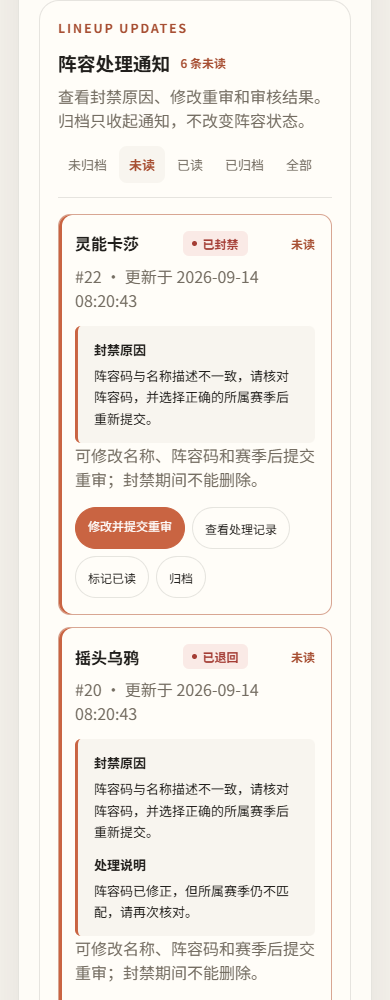
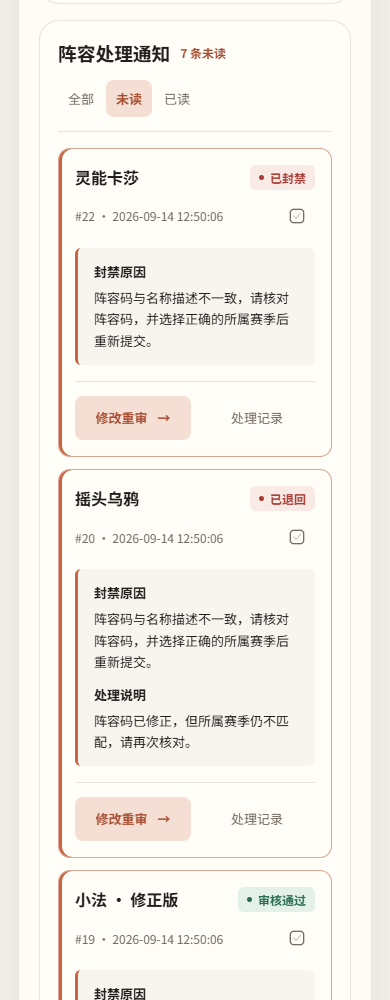
refactor: simplify owner lineup notifications

Changed region(s): [[0.1231, 0.0, 0.8, 1.0], [0.7385, 0.651, 0.8, 0.682], [0.8308, 0.186, 0.8615, 0.217]]

diff --git a/static/account-moderation.js b/static/account-moderation.js
@@ -1,7 +1,7 @@
 (function () {
   const { el, button, badge, openRecord } = window.JccLineupModeration;
   function mount(root, csrfToken) {
-    let status = 'active', page = 1, sequence = 0;
+    let status = 'all', page = 1, sequence = 0;
     const section = el('section', 'account-section'); section.id = 'lineup-notifications'; root.append(section);
     async function api(url, options = {}) {
       const response = await fetch(url, { ...options, headers: { 'Content-Type': 'application/json', 'X-CSRF-Token': csrfToken } });
@@ -13,13 +13,12 @@
       if (requestId !== sequence) return;
       page = data.page; section.replaceChildren();
       const head = el('div', 'account-section-head'); const heading = el('div');
-      heading.append(el('p', 'section-kicker', 'Lineup Updates'));
       const title = el('div', 'lm-notice-heading'); title.append(el('h3', '', '阵容处理通知'));
       if (data.counts.unread) title.append(el('span', 'lm-unread-label', `${data.counts.unread} 条未读`));
-      heading.append(title, el('p', 'account-subtitle', '查看封禁原因、修改重审和审核结果。归档只收起通知，不改变阵容状态。'));
+      heading.append(title);
       head.append(heading); section.append(head);
       const tabs = el('div', 'lm-tabs'); tabs.setAttribute('aria-label', '通知状态筛选');
-      for (const [value, label] of [['active', '未归档'], ['unread', '未读'], ['read', '已读'], ['archived', '已归档'], ['all', '全部']]) {
+      for (const [value, label] of [['all', '全部'], ['unread', '未读'], ['read', '已读']]) {
         const item = button(label, async () => { status = value; page = 1; await load(); }, `lm-tab${status === value ? ' is-active' : ''}`);
         item.setAttribute('aria-pressed', String(value === status)); tabs.append(item);
       }
@@ -29,25 +28,28 @@
       for (const item of data.items) {
         const card = el('article', `lm-notification${item.notice_state === 'unread' ? ' is-unread' : ''}`); card.dataset.lineupId = item.lineup_id;
         const header = el('div', 'account-row-main'); header.append(el('strong', '', item.name), badge(item.state));
-        if (item.notice_state === 'unread') header.append(el('span', 'lm-unread-label', '未读'));
-        card.append(header, el('p', 'account-row-meta', `#${item.lineup_id} · 更新于 ${item.updated_at}`));
-        const reason = el('div', 'lm-callout'); reason.append(el('strong', '', '封禁原因'), el('p', 'lm-reason', item.reason));
-        if (item.review_note) reason.append(el('strong', '', '处理说明'), el('p', 'lm-reason', item.review_note));
-        card.append(reason);
-        if (item.state === 'pending') card.append(el('p', 'account-row-meta', '修改已提交，等待管理员审核；审核期间保持封禁。'));
-        else if (item.lineup_status === 'banned') card.append(el('p', 'account-row-meta', '可修改名称、阵容码和赛季后提交重审；封禁期间不能删除。'));
-        else card.append(el('p', 'account-row-meta', item.lineup_status === 'hidden' ? '限制已解除，阵容恢复为隐藏状态。' : item.lineup_status === 'deleted' ? '阵容已删除，处理记录保留。' : '限制已解除，阵容已恢复展示。'));
-        const actions = el('div', 'lm-actions');
-        if (item.lineup_status === 'banned' && item.state !== 'pending') {
-          const edit = el('a', 'small-button lm-primary', '修改并提交重审'); edit.href = `/lineup/${item.lineup_id}/edit`; actions.append(edit);
-        }
-        actions.append(button(item.state === 'pending' ? '查看提交与记录' : '查看处理记录', () => openRecord({ api, lineupId: item.lineup_id })));
         async function update(next) {
           await api(`/api/me/lineup-notifications/${item.lineup_id}`, { method: 'PUT', body: JSON.stringify({ status: next, revision: item.revision }) });
           await load();
         }
-        if (item.notice_state === 'archived') actions.append(button('移出归档', () => update('read')));
-        else actions.append(button(item.notice_state === 'unread' ? '标记已读' : '标记未读', () => update(item.notice_state === 'unread' ? 'read' : 'unread')), button('归档', () => update('archived')));
+        const meta = el('div', 'lm-notice-meta');
+        meta.append(el('time', 'lm-muted', `#${item.lineup_id} · ${item.updated_at}`));
+        const readLabel = item.notice_state === 'unread' ? '标记已读' : '标记未读';
+        const read = button('', () => update(item.notice_state === 'unread' ? 'read' : 'unread'), `lm-read-toggle${item.notice_state === 'read' ? ' is-read' : ''}`);
+        read.setAttribute('aria-label', readLabel); read.title = readLabel;
+        const icon = document.createElementNS('http://www.w3.org/2000/svg', 'svg');
+        icon.setAttribute('viewBox', '0 0 24 24'); icon.setAttribute('aria-hidden', 'true');
+        icon.innerHTML = '<rect x="4" y="4" width="16" height="16" rx="4"/><path d="m8 12 3 3 5-6"/>';
+        read.append(icon); meta.append(read); card.append(header, meta);
+        const reason = el('div', 'lm-callout'); reason.append(el('strong', '', '封禁原因'), el('p', 'lm-reason', item.reason));
+        if (item.review_note) reason.append(el('strong', '', '处理说明'), el('p', 'lm-reason', item.review_note));
+        card.append(reason);
+        const actions = el('div', 'lm-notice-actions');
+        if (item.lineup_status === 'banned' && item.state !== 'pending') {
+          const edit = el('a', 'lm-notice-edit', '修改重审'); edit.href = `/lineup/${item.lineup_id}/edit`;
+          const arrow = el('span', '', '→'); arrow.setAttribute('aria-hidden', 'true'); edit.append(arrow); actions.append(edit);
+        }
+        actions.append(button(item.state === 'pending' ? '查看提交' : '处理记录', () => openRecord({ api, lineupId: item.lineup_id }), 'lm-notice-secondary'));
         card.append(actions); list.append(card);
       }
       section.append(list);

diff --git a/static/moderation.css b/static/moderation.css
@@ -52,11 +52,26 @@
 .lm-notification .account-row-main { flex-wrap:wrap; gap:10px; }.lm-notification .lm-actions { margin-top:16px; justify-content:flex-start; }.lm-notification .lm-callout { margin-top:14px; }
 .lm-unread-label { font-size:12px; color:var(--accent-strong); font-weight:600; }.lm-notice-heading { display:flex; flex-wrap:wrap; align-items:center; gap:10px; }
 .lm-notice-pagination { display:flex; justify-content:space-between; align-items:center; gap:8px; margin-top:16px; }
+.lm-notification .account-row-main { justify-content:space-between; align-items:start; }
+.lm-notification .account-row-main strong { flex:1; min-width:0; overflow-wrap:anywhere; }
+.lm-notice-meta { display:flex; align-items:center; gap:8px; margin:6px 0 0; }
+.lm-notice-meta time { flex:1; min-width:0; line-height:1.6; font-variant-numeric:tabular-nums; }
+.lm-read-toggle { display:inline-grid; place-items:center; flex:0 0 36px; width:36px; height:36px; padding:0; border:0; border-radius:7px; background:transparent; color:var(--muted); cursor:pointer; }
+.lm-read-toggle svg { width:20px; height:20px; fill:none; stroke:currentColor; stroke-width:1.6; stroke-linecap:round; stroke-linejoin:round; }
+.lm-read-toggle:not(.is-read) path { opacity:.3; }.lm-read-toggle.is-read { color:var(--accent-strong); }
+.lm-read-toggle:hover { color:var(--accent-strong); background:var(--accent-soft); }
+.lm-notice-actions { display:flex; gap:10px; margin-top:16px; padding-top:14px; border-top:1px solid var(--line); }
+.lm-notice-edit,.lm-notice-secondary { display:inline-flex; align-items:center; justify-content:center; gap:10px; min-height:40px; padding:9px 14px; border:0; border-radius:8px; text-decoration:none; cursor:pointer; font:inherit; font-size:13px; line-height:1.4; }
+.lm-notice-edit { color:var(--accent-strong); background:var(--accent-soft); font-weight:650; }
+.lm-notice-edit:hover { background:color-mix(in srgb,var(--accent) 24%,var(--surface-solid)); }
+.lm-notice-secondary { color:var(--muted); background:transparent; }.lm-notice-secondary:hover { background:var(--bg); color:var(--text); }
+.lm-notice-edit:focus-visible,.lm-notice-secondary:focus-visible,.lm-read-toggle:focus-visible { outline:2px solid var(--accent); outline-offset:3px; }
 .lm-editor-notice { margin-bottom:24px; }.lm-editor-notice .lm-actions { margin-top:12px; justify-content:flex-start; }
 .editor-panel .visibility-toggle[hidden] { display:none; }
 [data-lineup-pending-count][hidden] { display:none; }
 @media(max-width:1100px) { .lm-table th:nth-child(1) { width:29%; }.lm-table th:nth-child(2) { width:16%; }.lm-table th:nth-child(5) { width:26%; }.lm-table td { padding:14px 8px; } }
 @media(max-width:700px) {
+  .lm-notice-actions { gap:8px; }.lm-notice-edit,.lm-notice-secondary { flex:1; min-height:44px; padding:10px 8px; }
   .lm-toolbar .admin-search { flex-basis:100%; }.lm-toolbar select { flex:1; max-width:none; }.lm-tabs { gap:2px; }.lm-tab { padding:9px 10px; }
   .lm-table,.lm-table tbody { display:block; }.lm-table thead { position:absolute; width:1px; height:1px; overflow:hidden; clip-path:inset(50%); }
   .lm-table tr { display:grid; grid-template-columns:1fr 1fr; gap:14px 12px; padding:18px 0; border-bottom:1px solid var(--line); }

diff --git a/static/lineup-moderation.js b/static/lineup-moderation.js
@@ -104,7 +104,7 @@
           actions.append(button('封禁阵容', () => confirmAction('ban'), 'small-button lm-danger-button'));
         }
       } else if (lineup.status === 'banned' && m?.state !== 'pending') {
-        const link = el('a', 'small-button lm-primary', '修改并提交重审'); link.href = `/lineup/${lineupId}/edit`; actions.append(link);
+        const link = el('a', 'lm-notice-edit', '修改重审'); link.href = `/lineup/${lineupId}/edit`; actions.append(link);
       }
       footer.append(actions);
     }

diff --git a/tests/test_lineup_moderation.py b/tests/test_lineup_moderation.py
@@ -89,13 +89,13 @@ def test_admin_legacy_update_score_report_and_delete_cannot_bypass_ban(actors):
     assert detail(owner, lineup)['lineup']['status'] == 'banned'
 
 
-def test_reject_resubmit_archive_and_new_unread_result(actors):
+def test_reject_resubmit_and_new_unread_result(actors):
     owner, admin, _, _ = actors
     lineup = create_lineup(owner).get_json(); banned = change(admin, lineup, 'ban').get_json()
     submitted = submit(owner, banned['lineup']).get_json()
     item = detail(owner, lineup)['moderation']
     notification_url = f"/api/me/lineup-notifications/{lineup['id']}"
-    assert owner.put(notification_url, json={'status': 'archived', 'revision': item['revision']}, headers=auth_headers(owner)).status_code == 200
+    assert owner.put(notification_url, json={'status': 'read', 'revision': item['revision']}, headers=auth_headers(owner)).status_code == 200
     rejected = change(admin, submitted['lineup'], 'reject', '请重新检查赛季').get_json()
     assert rejected['moderation']['notice_state'] == 'unread'
     assert rejected['moderation']['review_note'] == '请重新检查赛季'
@@ -243,7 +243,7 @@ def test_notice_toggle_preserves_review_version_and_owner_permissions(actors, ap
     lineup = create_lineup(owner).get_json()
     banned = change(admin, lineup, 'ban').get_json()
     url = f"/api/me/lineup-notifications/{lineup['id']}"
-    for state in ('read', 'unread', 'archived', 'read'):
+    for state in ('read', 'unread', 'read'):
         response = owner.put(url, json={'status': state, 'revision': banned['moderation']['revision']}, headers=auth_headers(owner))
         assert response.status_code == 200
         assert detail(owner, lineup)['lineup']['version'] == banned['lineup']['version']
@@ -265,3 +265,14 @@ def test_failed_audit_rolls_back_ban_and_notification(actors, app, monkeypatch):
     record = detail(owner, lineup)
     assert record['lineup']['status'] == 'normal'
     assert record['moderation'] is None and record['events'] == []
+
+
+def test_notification_archival_is_not_supported(actors):
+    owner, admin, _, _ = actors
+    lineup = create_lineup(owner).get_json()
+    banned = change(admin, lineup, 'ban').get_json()
+    assert owner.put(f"/api/me/lineup-notifications/{lineup['id']}", json={
+        'status': 'archived', 'revision': banned['moderation']['revision'],
+    }, headers=auth_headers(owner)).status_code == 400
+    assert owner.get('/api/me/lineup-notifications?status=archived').status_code == 400
+    assert owner.get('/api/me/lineup-notifications').get_json()['total'] == 1

diff --git a/lineup_moderation_service.py b/lineup_moderation_service.py
@@ -176,14 +176,12 @@ def submit_revision(user, lineup_id, data):
 
 
 def list_notifications(user, args):
-    state = args.get('status', 'active')
-    if state not in {'active', 'unread', 'read', 'archived', 'all'}:
+    state = args.get('status', 'all')
+    if state not in {'unread', 'read', 'all'}:
         return None, '通知状态无效', 400
     from_sql = 'FROM lineup_moderation m JOIN lineups l ON l.id=m.lineup_id WHERE l.user_id=?'
     params = [user['id']]
-    if state == 'active':
-        from_sql += " AND m.notice_state != 'archived'"
-    elif state != 'all':
+    if state != 'all':
         from_sql += ' AND m.notice_state=?'
         params.append(state)
     result = paginate_rows(
@@ -200,7 +198,7 @@ def list_notifications(user, args):
 
 
 def update_notification(user, lineup_id, data):
-    if not isinstance(data, dict) or data.get('status') not in {'unread', 'read', 'archived'} or type(data.get('revision')) is not int:
+    if not isinstance(data, dict) or data.get('status') not in {'unread', 'read'} or type(data.get('revision')) is not int:
         return None, '通知状态或版本无效', 400
     cursor = get_db().execute(
         '''UPDATE lineup_moderation SET notice_state=? WHERE lineup_id=? AND revision=?

diff --git a/tests/serve_lineup_moderation_preview.py b/tests/serve_lineup_moderation_preview.py
@@ -55,8 +55,6 @@ def serve():
                         result, error, _ = moderate_lineup(admin, i, 'reject', {'version': result['lineup']['version'], 'reason': '阵容码已修正，但所属赛季仍不匹配，请再次核对。'})
                     if i == 19:
                         result, error, _ = moderate_lineup(admin, i, 'approve', {'version': result['lineup']['version'], 'reason': '修改后的阵容码与赛季一致，已恢复原展示状态。'})
-                if i == 3:
-                    db.execute("UPDATE lineup_moderation SET notice_state='archived' WHERE lineup_id=?", (i,)); db.commit()
         port = int(os.environ.get('LINEUP_MODERATION_PREVIEW_PORT', '5112'))
         print(f'Moderation preview: http://127.0.0.1:{port}/admin | previewadmin / previewuser | Preview1234', flush=True)
         app.run(host='127.0.0.1', port=port, debug=False, use_reloader=False)

diff --git a/lineup_moderation_schema.py b/lineup_moderation_schema.py
@@ -10,7 +10,7 @@ CREATE TABLE IF NOT EXISTS lineup_moderation (
     proposed_code TEXT,
     proposed_season_id TEXT,
     review_note TEXT NOT NULL DEFAULT '',
-    notice_state TEXT NOT NULL DEFAULT 'unread' CHECK (notice_state IN ('unread', 'read', 'archived')),
+    notice_state TEXT NOT NULL DEFAULT 'unread' CHECK (notice_state IN ('unread', 'read')),
     revision INTEGER NOT NULL DEFAULT 1,
     created_at TEXT NOT NULL,
     updated_at TEXT NOT NULL,

diff --git a/AGENTS.md b/AGENTS.md
@@ -1,6 +1,6 @@
 # Repository Guidelines
 
-Ordinary lineup moderation now uses `lineup_moderation.py` / `lineup_moderation_service.py` and DB migration `0016_lineup_moderation.sql` (deploy DB before Web). `lineups.status=banned` covers bans, pending revisions and rejected revisions; original content stays unchanged until approval, and restoration preserves the prior normal/hidden status. Generic edit/delete/hide/score and report-hide paths must never bypass this restriction. Mutations use conditional lineup versions, preserve moderation events and audit atomically, and notify authors through `/api/me/lineup-notifications` with independent read/archive revisions. A new admin summary and sidebar entry expose pending reviews. Admin tables and review/score dialogs live in `static/admin/lineups.js`, shared details in `static/lineup-moderation.js`, account notifications in `static/account-moderation.js`, styling in `static/moderation.css`. Keep the custom editor season picker outside a wrapping label to prevent WebKit reactivation after selection. No new production configuration or worker. See `docs/lineup-moderation.md`; isolated loopback preview is `tests/serve_lineup_moderation_preview.py` on 5112, tests are `tests/test_lineup_moderation.py` and `tests/lineup_moderation_rendering.cjs`. User approval is still required before merging these worktree changes to main.
+Ordinary lineup moderation now uses `lineup_moderation.py` / `lineup_moderation_service.py` and DB migration `0016_lineup_moderation.sql` (deploy DB before Web). `lineups.status=banned` covers bans, pending revisions and rejected revisions; original content stays unchanged until approval, and restoration preserves the prior normal/hidden status. Generic edit/delete/hide/score and report-hide paths must never bypass this restriction. Mutations use conditional lineup versions, preserve moderation events and audit atomically, and notify authors through `/api/me/lineup-notifications` with independent read/unread revisions. Author notifications expose only all/unread/read filters: archival was removed during acceptance, and the API rejects archived. Card instructions are concise, with a soft rectangular edit action, a text history action and a read toggle beside the timestamp. A new admin summary and sidebar entry expose pending reviews. Admin tables and review/score dialogs live in `static/admin/lineups.js`, shared details in `static/lineup-moderation.js`, account notifications in `static/account-moderation.js`, styling in `static/moderation.css`. Keep the custom editor season picker outside a wrapping label to prevent WebKit reactivation after selection. No new production configuration or worker. See `docs/lineup-moderation.md`; isolated loopback preview is `tests/serve_lineup_moderation_preview.py` on 5112, tests are `tests/test_lineup_moderation.py` and `tests/lineup_moderation_rendering.cjs`. User approval is still required before merging these worktree changes to main.
 
 The real-time lineup `赛季管理` workspace now reuses the compact surface renderer in `static/admin/season-display.js`, with a public ordered list, default badge, status select, and collapsible inactive seasons. Its separate lineup classification still feeds ordinary lineup choices. `normalize_live_comps_manifest()` compacts active/archived positions, gives hidden/disabled entries null order, and falls back to the first public default (null if none). Restoring a season appends it to the public list. Admin writes reject non-public sorting/default targets; creation still defaults to hidden in the UI and uses the mutation response without a follow-up GET. `season_data_path()` remains the only legacy S17 path mapping: a newly selected default with no own JSON must return empty data, never borrow the former default's payload. No DB migration or new production variables. See `docs/admin-live-season-display.md`; `tests/test_admin_live_season_display.py` and the shared `tests/season_display_rendering.cjs` cover this flow. The existing loopback preview on port 5100 now includes both workspaces.
 
